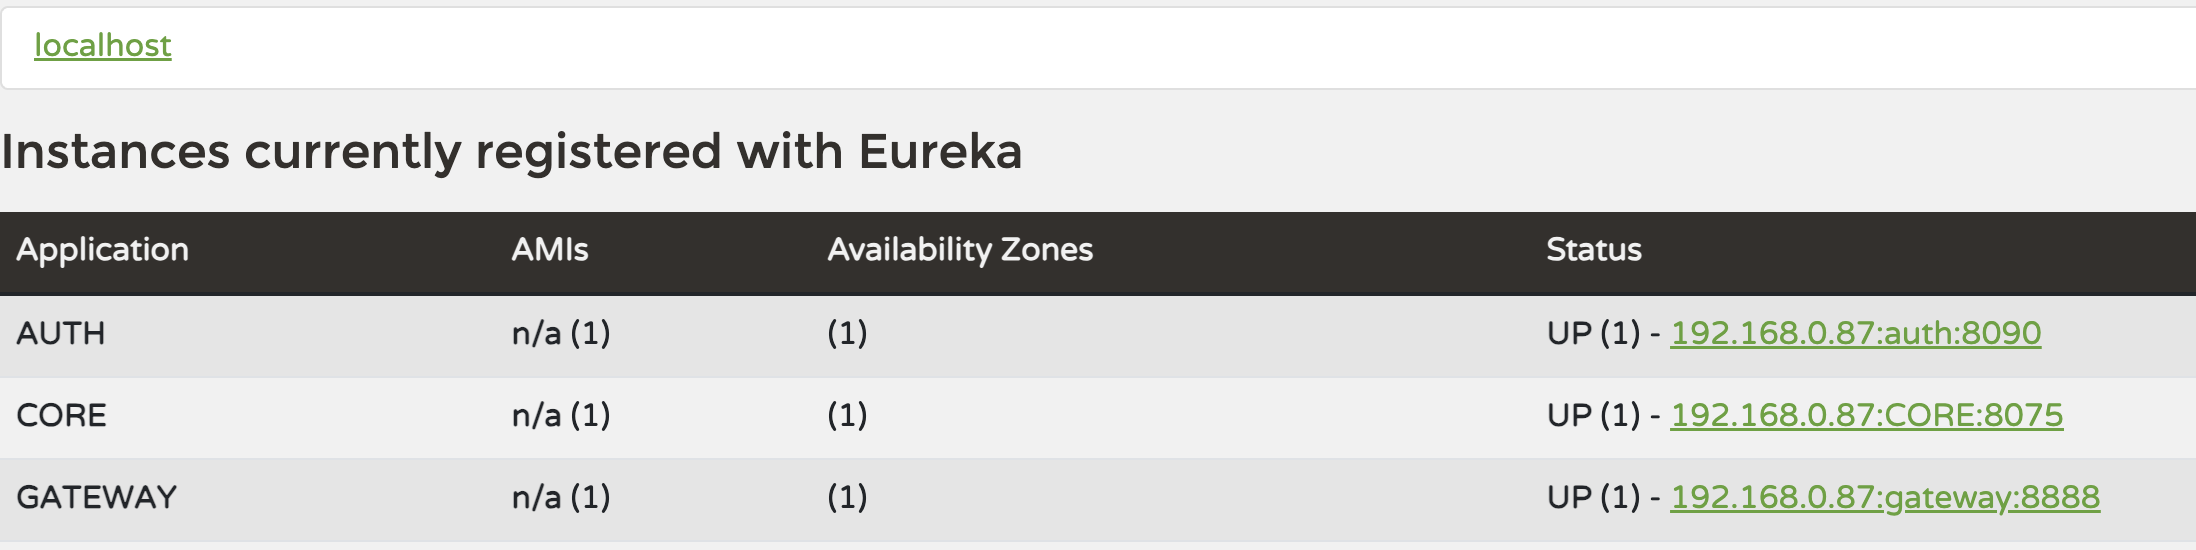
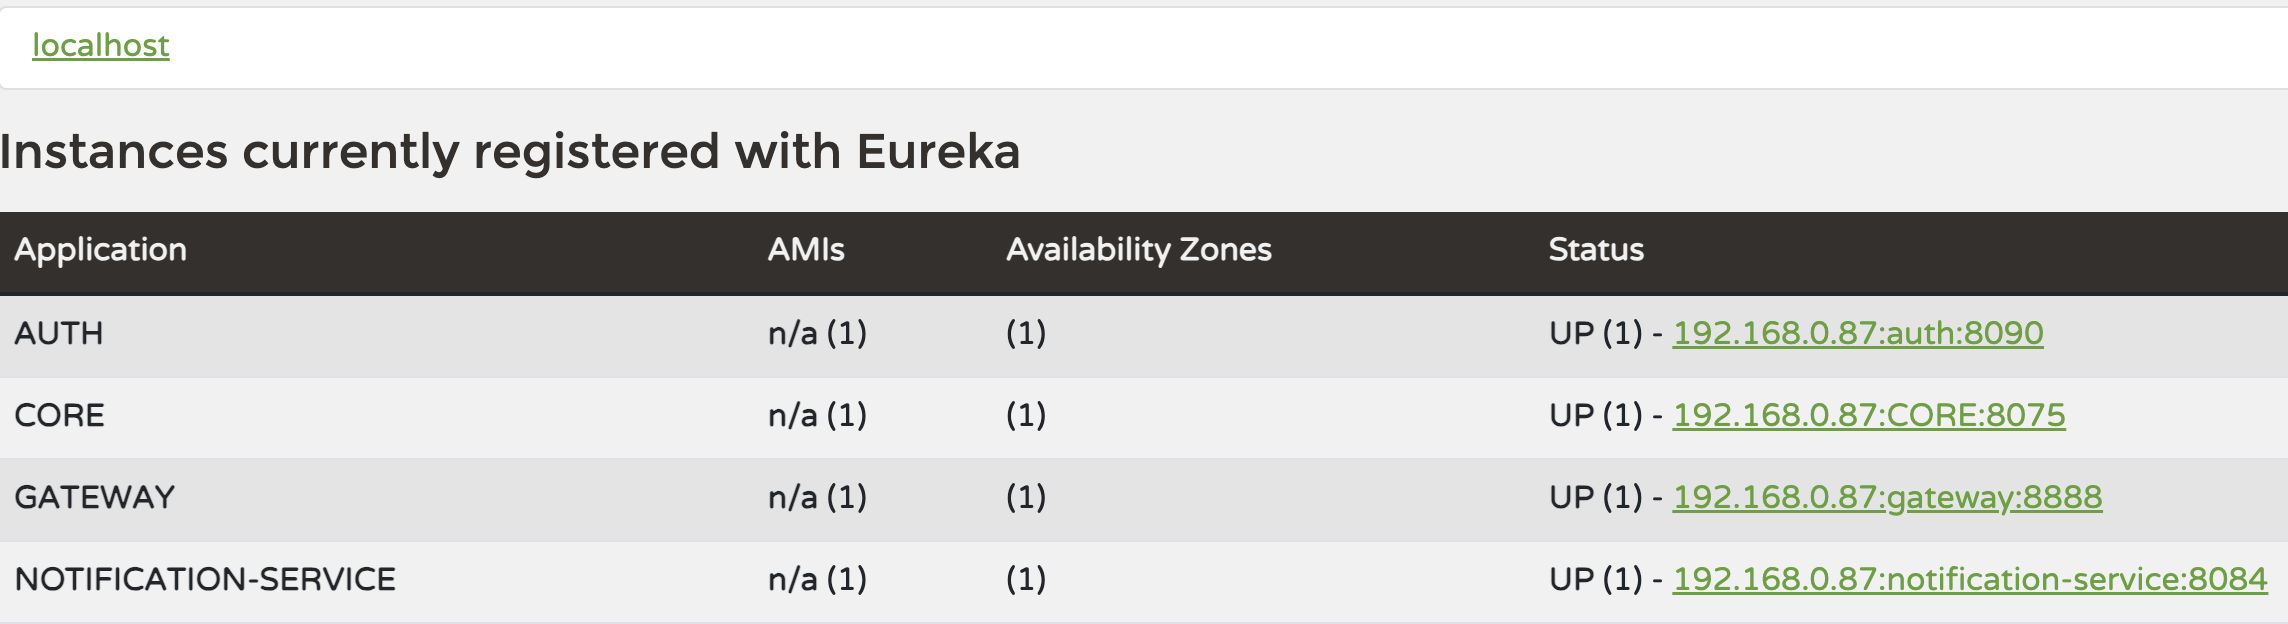
Add notification microservice for sending email

diff --git a/notification/src/main/java/com/example/notification/service/EmailService.java b/notification/src/main/java/com/example/notification/service/EmailService.java
@@ -1,0 +1,27 @@
+package com.example.notification.service;
+
+import com.example.notification.dto.EmailRequestDto;
+import org.springframework.beans.factory.annotation.Autowired;
+import org.springframework.beans.factory.annotation.Value;
+import org.springframework.mail.SimpleMailMessage;
+import org.springframework.mail.javamail.JavaMailSender;
+import org.springframework.stereotype.Service;
+
+@Service
+public class EmailService {
+
+    @Autowired
+    private JavaMailSender javaMailSender;
+
+    @Value("${spring.mail.username}")
+    private String sender;
+
+    public void sendEmail(EmailRequestDto emailRequest) {
+        SimpleMailMessage message = new SimpleMailMessage();
+        message.setFrom(sender);
+        message.setTo(emailRequest.getTo());
+        message.setSubject(emailRequest.getSubject());
+        message.setText(emailRequest.getBody());
+        javaMailSender.send(message);
+    }
+}

diff --git a/notification/src/main/java/com/example/notification/controller/NotificationController.java b/notification/src/main/java/com/example/notification/controller/NotificationController.java
@@ -1,0 +1,23 @@
+package com.example.notification.controller;
+
+import com.example.notification.dto.EmailRequestDto;
+import com.example.notification.service.EmailService;
+import org.springframework.beans.factory.annotation.Autowired;
+import org.springframework.web.bind.annotation.PostMapping;
+import org.springframework.web.bind.annotation.RequestBody;
+import org.springframework.web.bind.annotation.RequestMapping;
+import org.springframework.web.bind.annotation.RestController;
+
+@RestController
+@RequestMapping("/api/notification")
+public class NotificationController {
+
+    @Autowired
+    private EmailService emailService;
+
+    @PostMapping("/send")
+    public String sendEmail(@RequestBody EmailRequestDto emailRequest) {
+        emailService.sendEmail(emailRequest);
+        return "Email sent successfully";
+    }
+}

diff --git a/notification/src/main/java/com/example/notification/NotificationApplication.java b/notification/src/main/java/com/example/notification/NotificationApplication.java
@@ -1,0 +1,15 @@
+package com.example.notification;
+
+import org.springframework.boot.SpringApplication;
+import org.springframework.boot.autoconfigure.SpringBootApplication;
+import org.springframework.cloud.client.discovery.EnableDiscoveryClient;
+
+@SpringBootApplication
+@EnableDiscoveryClient
+public class NotificationApplication {
+
+	public static void main(String[] args) {
+		SpringApplication.run(NotificationApplication.class, args);
+	}
+
+}

diff --git a/notification/src/main/java/com/example/notification/dto/EmailRequestDto.java b/notification/src/main/java/com/example/notification/dto/EmailRequestDto.java
@@ -1,0 +1,10 @@
+package com.example.notification.dto;
+
+import lombok.Data;
+
+@Data
+public class EmailRequestDto {
+    private String to;
+    private String subject;
+    private String body;
+}
